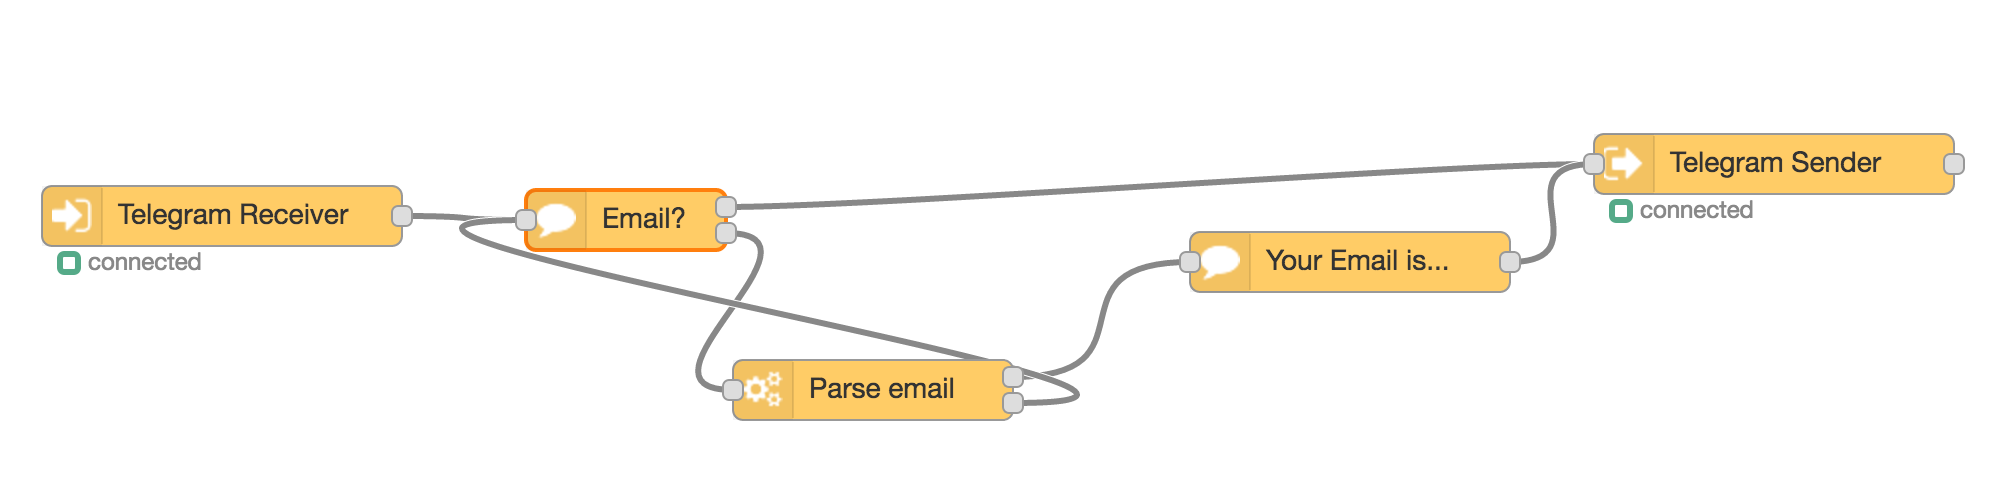
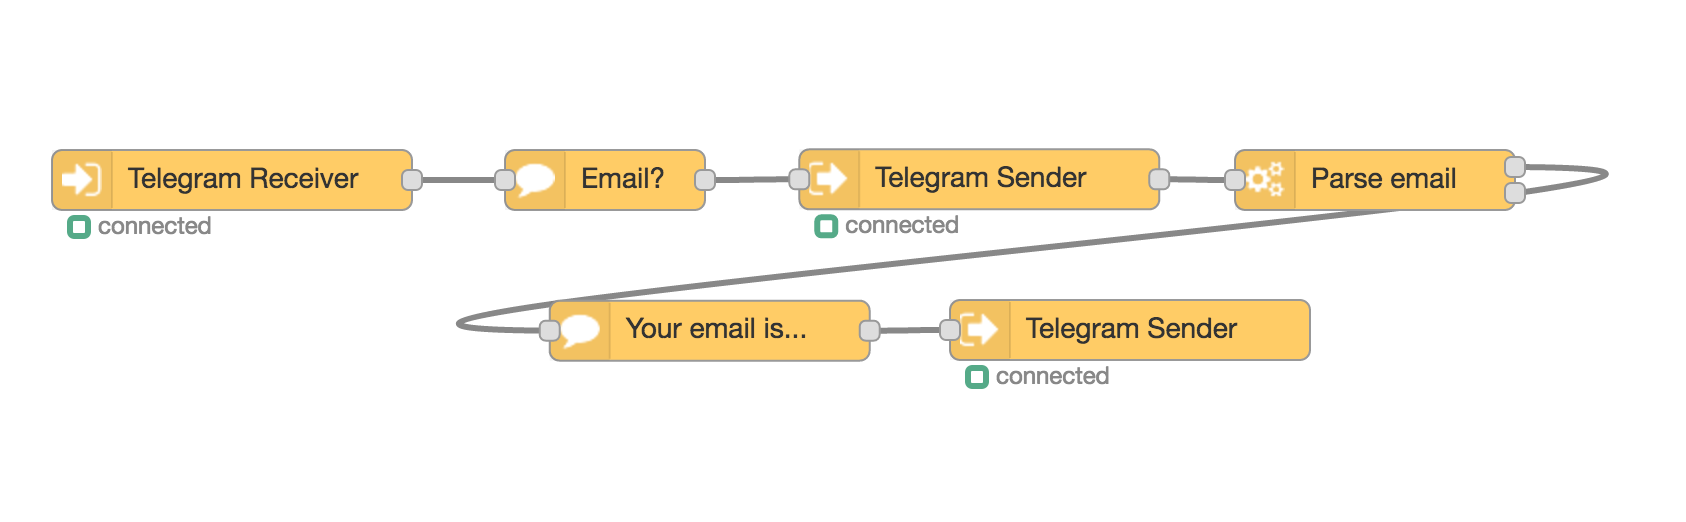
fox docs

Changed region(s): [[0.0, 0.2419, 0.987, 0.8468]]

diff --git a/README.md b/README.md
@@ -136,22 +136,23 @@ return msg;
 The first output of the `Listen Node` is also connected to a confirmation message to be sent back to the user: `Sending resume to {{email}}`. Here the variable `{{email}}` is automatically replaced by the value present in the chat context.
 
 ### Tracking answers
-Complex chatbots may require to send some information to the user and then go on with the rest of the flow, in this example
+Complex chatbots may require to request some information to the user and then go on with the rest of the flow, in this example
 
 ![Track Conversation](./docs/images/example-track.png)
 
 The user receive a message `"Please enter your email:"`, note that the `Telegram Sender` node has an output, that means that the next message from the same user will be automatically re-routed to the rest of the flow connected to that output, continuing in this way the conversation. The `Parse Node` scan the message for the email and store it the chat context, the final message just show the captured value `"Your email is {{email}}"`.
 
 After 5 minutes if inactivity from the user, the conversation is considered ended and the next messages will be routed the the root of the flow.
+In order to enable the output pin `Telegram Sender` check the *track* option in the configuration panel.
 
 ### Send a Location
-Here is an example where the chatbot request the user location. The user can share his location with the "share" button in Telegram and Facebook or can insert manually the address, here is the flow
+Here is an example where the chatbot request the user location. The user can share his location with the *"share"* button in Telegram and Facebook or can insert manually the address, here is the flow
 
 ![User Position](./docs/images/example-position.png)
 
-First is presented a message to the user asking to share his position, this message has the *tracking* option activated, the answer to this message will not start over the flow but will continue to the nodes attached to the second output.
+First is presented a message to the user asking to share his position, this is connected to a `Telegram Sender`  with the *tracking* option activated, the answer to this message will not start over the flow but will continue to the nodes attached to this sender output.
 
-The answer of the user is then captured by the `Parse Node`, which parse the incoming message searching for a location-type message (an object containing latitude and longitude) and it's the result of the user sharing the position with the chat client ( *Telegram* or *Facebook* ). If it doesn't match the message is routed to the second output, (this happens when the user writes his location manually) to the Google Geolocation node.
+The answer of the user is then captured by the `Parse Node`, which parse the incoming message searching for a location-type message (an object containing latitude and longitude) and it's the result of the user sharing the position with the chat client ( *Telegram* or *Facebook* ). If it doesn't match the message is routed to the second output, (this happens when the user writes his location manually) to the **Google Geolocation** node.
 
 The final message just the coordinates `"Your position is {{location.latitude}}, {{location.longitude}}"`
 
@@ -181,6 +182,9 @@ In the template system some defaults variables are available using the *{{variab
 * **authorized** - boolean, whether the user is authorized or not
 * **transport** - the current transport, could be *telegram*, *facebook*, *slack*
 * **message** - the current message from the user in string format
+
+## Changelog
+- **0.5.2** - Breaking changes: moved the tracking option to the sender node, this will break previous flows where the tracking output was in the message node. If errors on saving the flow occurs after the upgrade, export the whole flow and import it again. Added debug node.
 
 ## Roadmap
 * Slack Sender & Receiver
